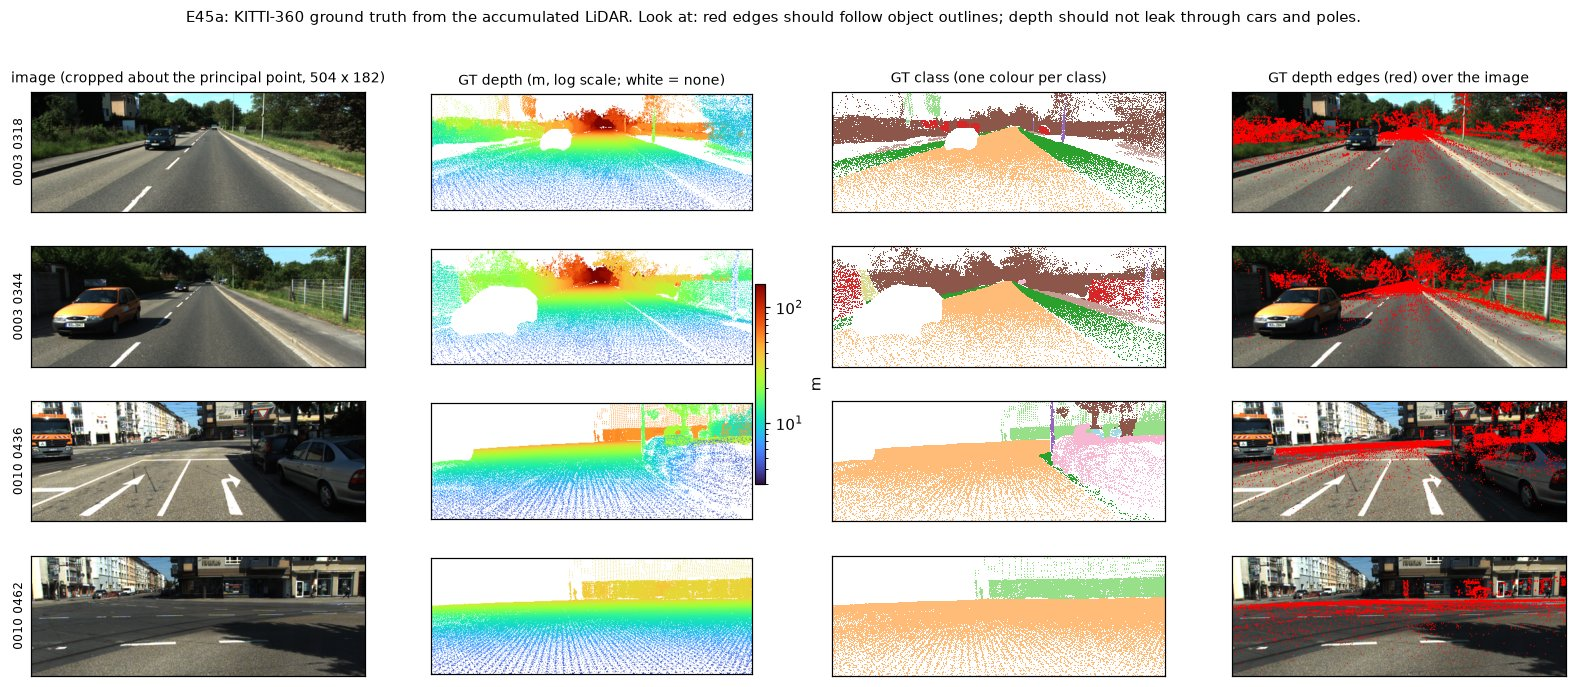
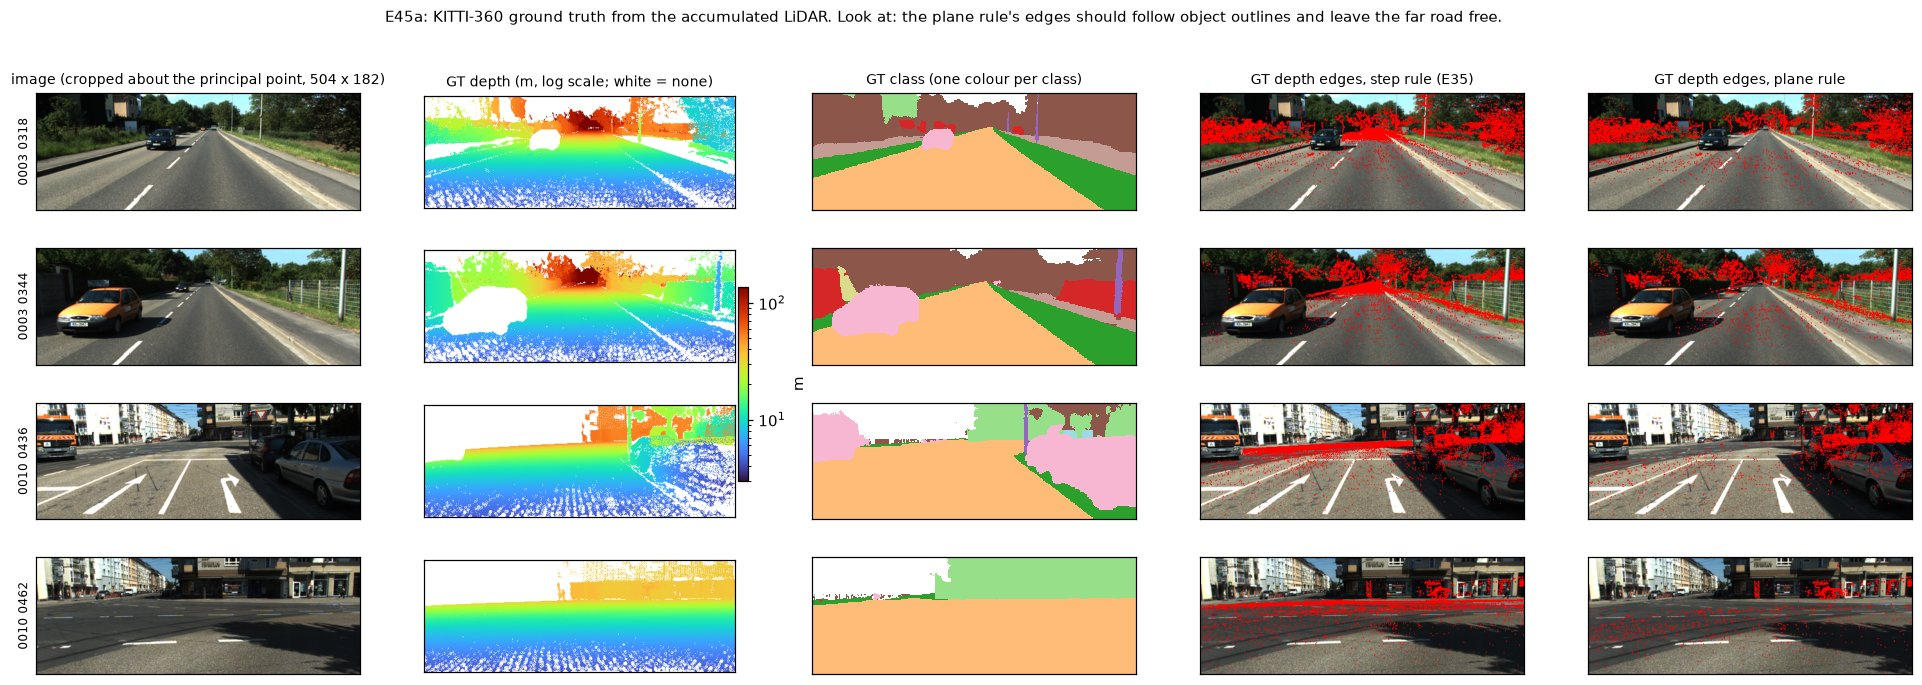
Recheck KITTI-360's ground truth: edges stay at 36-64% of pixels
With filled holes and the plane rule the band along the horizon is
gone, but the share of ground-truth pixels within 3 px of an edge
only falls from 39-67% to 36-64% per scene: road 33%, car 73%,
vegetation 78% (Hypersim: 13.5%). What remains are outlying points on
the road, sparse cars seen through their windows, and leaves.

The projected LiDAR is right on average and too noisy between
neighbours for E25b's edge band. The plan entry proposes E25a only on
KITTI-360 and the edge question on Tanks and Temples; not decided.

diff --git a/experiments/scripts/e45a_gt_check.py b/experiments/scripts/e45a_gt_check.py
@@ -2,13 +2,15 @@
 
 Per prepared scene (`kitti360-prepare`):
 1. Coverage: share of pixels with GT depth, and its depth range.
-2. Edges: share of GT pixels within EDGE_PX of a GT depth edge (E35's definition).
+2. Edges: share of GT pixels within EDGE_PX of a GT depth edge, by E35's step rule
+   and by the plane rule of src/analysis/edges.py.
 3. Multi-view consistency (poses, intrinsics and the projection together): lift view
    i's GT, project it into view j; where it lands on a GT pixel of the same instance,
    the relative depth difference: its median and the share within CONSISTENT.
-4. Classes: share of the GT pixels per class, over the listed scenes.
+4. Classes: share of the GT pixels per class, and the share of each class's pixels
+   within EDGE_PX of a plane-rule edge, over the listed scenes.
 Figure: FIGURE_VIEWS views of each of --figure's scenes: image, GT depth, GT class,
-and the GT depth edges over the image. KITTI-360 data: CC BY-NC-SA 3.0
+and the GT depth edges of both rules over the image. KITTI-360 data: CC BY-NC-SA 3.0
 (www.cvlibs.net/datasets/kitti-360), Liao et al., TPAMI 2022.
 
 uv run python experiments/scripts/e45a_gt_check.py > experiments/results/e45a_gt_check.txt
@@ -17,6 +19,7 @@ uv run python experiments/scripts/e45a_gt_check.py > experiments/results/e45a_gt
 import argparse
 import itertools
 from collections import Counter
+from collections.abc import Callable
 from pathlib import Path
 
 import matplotlib as mpl
@@ -24,8 +27,10 @@ import numpy as np
 
 mpl.use("Agg")
 import matplotlib.pyplot as plt
-from e35_error_split import depth_edges, edge_distance
+from e35_error_split import depth_edges as step_edges
+from scipy import ndimage
 
+from src.analysis.edges import depth_edges
 from src.loaders.ground_truth import GroundTruth
 from src.loaders.kitti360.prepare import output_path
 from src.loaders.kitti360.scene import CLASSES, load_config
@@ -63,6 +68,16 @@ def consistency(views: Views, gt: GroundTruth) -> np.ndarray:
     return np.concatenate(out)
 
 
+def near_edge(depth: np.ndarray, valid: np.ndarray, rule: Callable) -> np.ndarray:
+    """Mark the valid pixels (V, H, W) within EDGE_PX of an edge of their view."""
+    near = np.zeros(depth.shape, dtype=bool)
+    for i, (d, v) in enumerate(zip(depth, valid, strict=True)):
+        edge = rule(d, v)
+        if edge.any():
+            near[i] = v & (ndimage.distance_transform_edt(~edge) <= EDGE_PX)
+    return near
+
+
 def class_image(gt: GroundTruth, view: int) -> np.ndarray:
     """Class id (H, W) of a view's GT pixels, -1 without a class."""
     index = {name: c for c, name in CLASSES.items()}
@@ -74,9 +89,9 @@ def class_image(gt: GroundTruth, view: int) -> np.ndarray:
 
 
 def figure(shown: list[tuple[str, Views, GroundTruth]]) -> None:
-    """Image, GT depth, GT class and GT depth edges for FIGURE_VIEWS of each scene."""
+    """Image, GT depth, GT class and both rules' edges for FIGURE_VIEWS of each scene."""
     rows = [(s, v, g, i) for s, v, g in shown for i in FIGURE_VIEWS]
-    fig, axes = plt.subplots(len(rows), 4, figsize=(18, 1.75 * len(rows)))
+    fig, axes = plt.subplots(len(rows), 5, figsize=(22, 1.75 * len(rows)))
     far = max(np.percentile(g.depth[g.depth > 0], 99) for _, _, g in shown)
     for ax, (scene, views, gt, i) in zip(axes, rows, strict=True):
         depth, valid = gt.depth[i], gt.depth[i] > 0
@@ -95,9 +110,10 @@ def figure(shown: list[tuple[str, Views, GroundTruth]]) -> None:
             vmax=40,
             interpolation="nearest",
         )
-        overlay = views.images[i].copy()
-        overlay[depth_edges(depth, valid)] = (255, 0, 0)
-        ax[3].imshow(overlay)
+        for a, rule in ((ax[3], step_edges), (ax[4], depth_edges)):
+            overlay = views.images[i].copy()
+            overlay[rule(depth, valid)] = (255, 0, 0)
+            a.imshow(overlay)
         for a in ax:
             a.set_xticks([])
             a.set_yticks([])
@@ -105,14 +121,15 @@ def figure(shown: list[tuple[str, Views, GroundTruth]]) -> None:
         "image (cropped about the principal point, 504 x 182)",
         "GT depth (m, log scale; white = none)",
         "GT class (one colour per class)",
-        "GT depth edges (red) over the image",
+        "GT depth edges, step rule (E35)",
+        "GT depth edges, plane rule",
     )
     for a, title in zip(axes[0], titles, strict=True):
         a.set_title(title, fontsize=9)
     fig.colorbar(shade, ax=axes[:, 1], fraction=0.03, pad=0.01, label="m")
     fig.suptitle(
-        "E45a: KITTI-360 ground truth from the accumulated LiDAR. Look at: red edges"
-        " should follow object outlines; depth should not leak through cars and poles.",
+        "E45a: KITTI-360 ground truth from the accumulated LiDAR. Look at: the plane"
+        " rule's edges should follow object outlines and leave the far road free.",
         fontsize=10,
     )
     fig.savefig(OUT, dpi=110, bbox_inches="tight", pil_kwargs={"quality": 85})
@@ -130,11 +147,10 @@ def main() -> None:
     args = parser.parse_args()
     cfg = load_config(args.cfg)
     pixels: Counter = Counter()
+    at_edge: Counter = Counter()
     shown = []
-    print(
-        "scene (group): GT px | depth m 1%-99% | px <= 3 px of an edge | view i in j:"
-    )
-    print("  median relative difference, share within 5%")
+    print("scene (group): GT px | depth m 1%-99% | px <= 3 px of an edge, step rule,")
+    print("  plane rule | view i in j: median relative difference, share within 5%")
     for scene, group in cfg.scenes.items():
         path = output_path(cfg, scene)
         if not path.exists():
@@ -143,23 +159,28 @@ def main() -> None:
         views = Views.load(path)
         gt = GroundTruth.load(path.with_name(f"gt_{path.stem}.npz"))
         valid = gt.depth > 0
-        near = (edge_distance(gt.depth, valid) <= EDGE_PX) & valid
+        near = [near_edge(gt.depth, valid, rule) for rule in (step_edges, depth_edges)]
         diff = consistency(views, gt)
         low, high = np.percentile(gt.depth[valid], [1, 99])
         print(
             f"{scene} ({group}): {valid.mean():.3f} | {low:.1f}-{high:.1f} |"
-            f" {near.sum() / valid.sum():.3f} | {np.median(diff):.4f},"
+            f" {near[0].sum() / valid.sum():.3f}, {near[1].sum() / valid.sum():.3f} |"
+            f" {np.median(diff):.4f},"
             f" {(diff < CONSISTENT).mean():.3f}"
         )
-        ids, counts = np.unique(gt.instance_ids[valid], return_counts=True)
-        for i, n in zip(ids.tolist(), counts.tolist(), strict=True):
-            pixels[gt.classes.get(i, "unlabeled")] += n
+        for mask, counter in ((valid, pixels), (near[1], at_edge)):
+            ids, counts = np.unique(gt.instance_ids[mask], return_counts=True)
+            for i, n in zip(ids.tolist(), counts.tolist(), strict=True):
+                counter[gt.classes.get(i, "unlabeled")] += n
         if scene in args.figure:
             shown.append((scene, views, gt))
     total = sum(pixels.values())
-    print("\nshare of the GT pixels per class, over the prepared scenes:")
+    print(
+        "\nclass: share of the GT pixels | share of its pixels within 3 px of an edge"
+    )
+    print("  (plane rule), over the prepared scenes")
     for name, n in pixels.most_common():
-        print(f"  {name}: {n / total:.4f}")
+        print(f"  {name}: {n / total:.4f} | {at_edge[name] / n:.3f}")
     if shown:
         figure(shown)
         print(f"\nfigure: {OUT}")

diff --git a/experiments/LOG.md b/experiments/LOG.md
@@ -3999,8 +3999,29 @@ Unrelated to E45 (the filters of issue #27): the id follows issue #45.
     band is then no longer "the pixels at object outlines", and E25a's edge-distance cell and all of E25b
     lose their meaning. Also, the GT instance ids exist only where there is depth, so GT segments are dotted
     and E25b's snap would treat every pixel as a segment border.
-  - Open, to decide before going on (changing a definition also changes what "the same analysis as on
-    Hypersim" means): an edge definition that ignores a plane's own slope; dense instance maps from the 2D
-    labels, kept apart from where depth exists; splatting each point over a few pixels of its own class;
-    a depth cap. One scene (`0010_0000002024_0000002177`) has a 41 m gap between two of its views, as the
-    labelled frames have a hole there.
+  - One scene (`0010_0000002024_0000002177`) has a 41 m gap between two of its views, as the labelled frames
+    have a hole there.
+- **Two adaptations, decided with Mircea 11.11 after that check, still before any Déjà View output:**
+  - *Loader:* instance ids at every pixel from the 2D labels (sky NO_MESH), whether or not a point fell
+    into it; holes interpolated from the surrounding points of the same instance (`fill_holes`: Delaunay on
+    the pixels with depth, barycentric in inverse depth, exact on a plane; corners within 3 px, of the hole's
+    own instance and within 10% of each other). A plain splat over neighbouring pixels was not used: taking
+    the nearest of several points biases a sloped surface towards the camera. Coverage 36-59% -> 54-81%;
+    cross-view agreement unchanged (median 0.5-2.5%). `kitti360-prepare` now takes about 45 s per scene.
+  - *Edges:* `src/analysis/edges.py`, the plane rule: two neighbours are an edge when each one's
+    continuation of its own inverse-depth slope misses the other by more than 5%; with zero slopes it is E35's
+    step rule. Tests: a grazing plane has no edges though the step rule marks it, a box standing on it is
+    outlined and its foot is not, a pole one pixel wide is found.
+  - **Result of the second check** (`results/e45a_gt_check.txt`, `figures/e45a_gt_check.jpg`, step rule and
+    plane rule side by side): the plane rule removes the band along the horizon, as designed. But the
+    share of GT pixels within 3 px of an edge only falls from 39-67% to 36-64% per scene. Per class, plane
+    rule, all scenes: road 33%, sidewalk 38%, building 47%, pole 52%, car 73%, vegetation 78% (Hypersim, all
+    classes, step rule: 13.5%). What remains is in the figure: single outlying points scattered over the road,
+    cars whose points are sparse and seen through their windows, and vegetation, where neighbouring pixels
+    hit near and far leaves.
+  - **Reading:** this GT is right on average but not clean enough between neighbouring pixels for "the band
+    at depth edges" to mean object outlines. E25b on it would measure LiDAR noise. E25a's per-class excess
+    does not need clean edges (its edge-distance cell then also absorbs noisy regions), so it can run. Proposed,
+    not decided: E45a = E25a only on KITTI-360; the edge question (E25b) goes to Tanks and Temples (E45b),
+    whose laser scans are dense (2 mm) and hold the thin parts Umut named. Not tried: removing outlying
+    points from the GT (another choice stacked on the GT; it would not help cars or vegetation).
